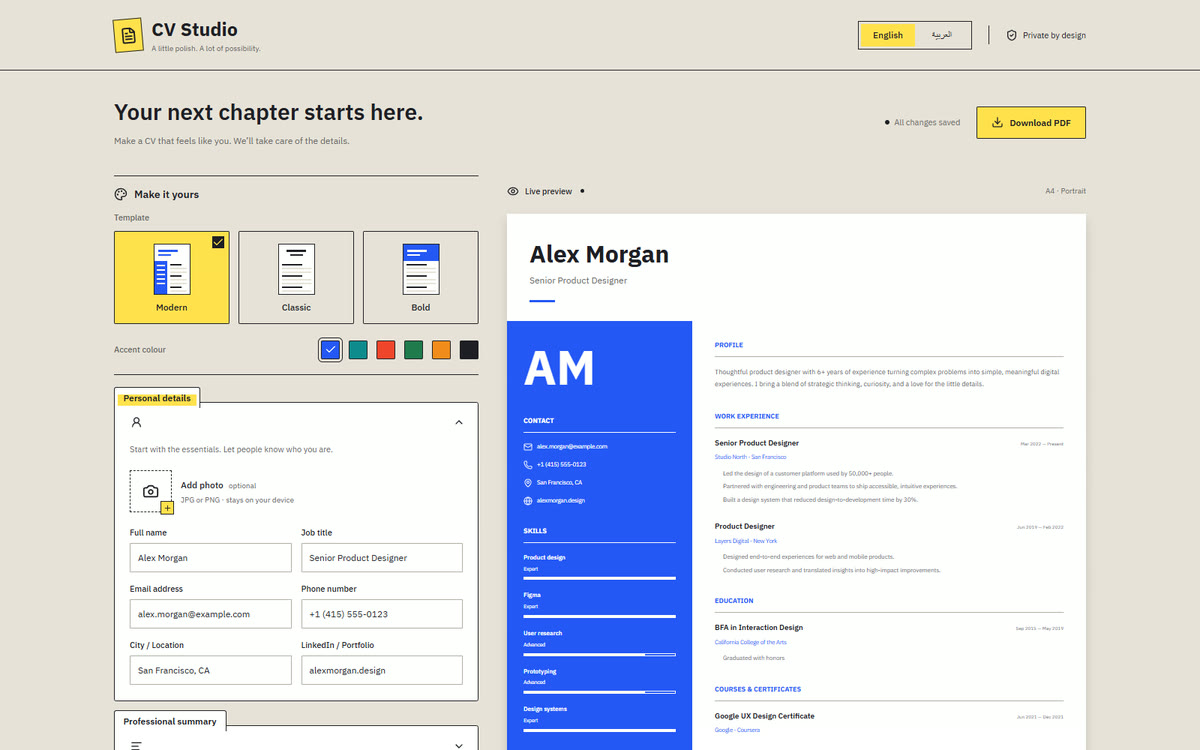
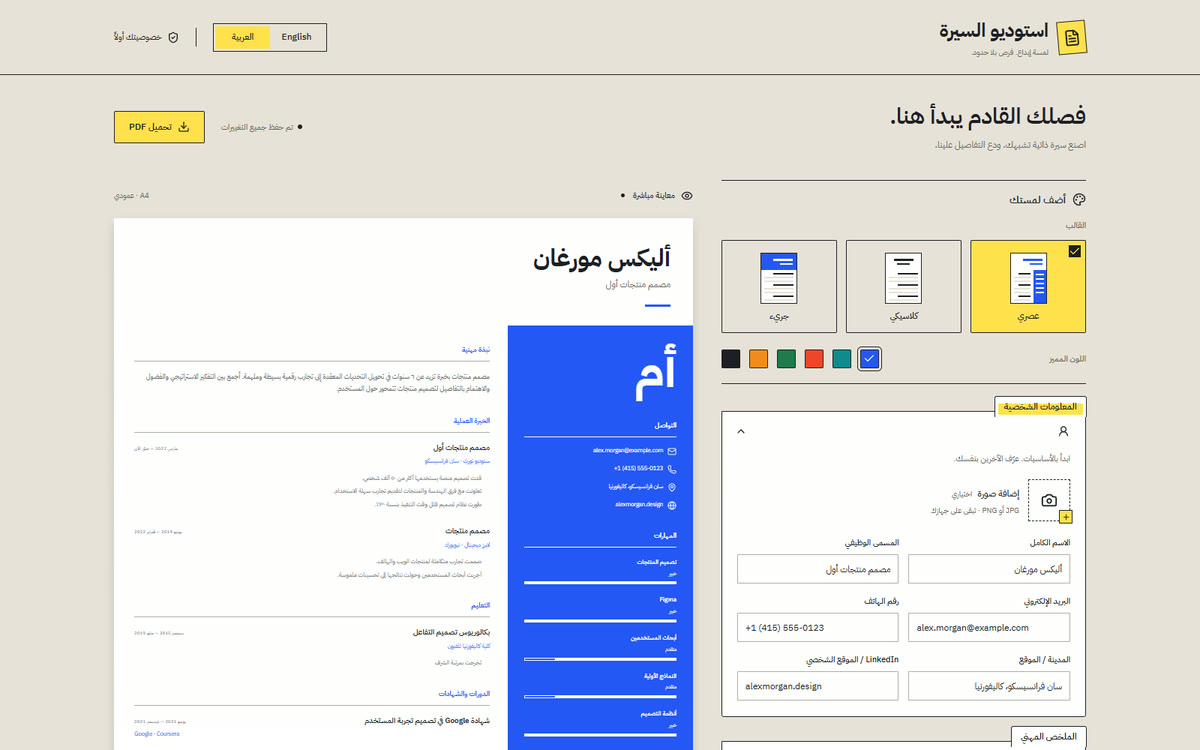
Portfolio: CV Studio in Arabic and the opened wedding invitation

Changed region(s): [[0.0925, 0.2453, 0.925, 1.0], [0.0, 0.0, 1.0, 0.2147]]

diff --git a/index.html b/index.html
@@ -607,7 +607,7 @@ footer{--f-bg:var(--ink);--f-ink:var(--bg);margin-top:clamp(72px,9vw,120px);back
             <div class="band-links"><a class="pill main" target="_blank" rel="noopener" href="https://elostabarber.lovable.app/">Live site<svg class="i" viewBox="0 0 24 24" aria-hidden="true"><use href="#i-up"/></svg></a><a class="pill" target="_blank" rel="noopener" href="https://github.com/ahmedmetered/elostabarber">Repo</a></div>
           </article>
           <article class="site fade d2">
-            <a class="frame-link" target="_blank" rel="noopener" href="https://yandk.lovable.app/"><div class="frame"><div class="bar"><i></i><i></i><i></i><span>yandk.lovable.app</span></div><img src="img/yandk.jpg" width="1200" height="750" alt="Wedding invitation for Yasmine and Karim, shown as a sealed envelope" loading="lazy"></div></a>
+            <a class="frame-link" target="_blank" rel="noopener" href="https://yandk.lovable.app/"><div class="frame"><div class="bar"><i></i><i></i><i></i><span>yandk.lovable.app</span></div><img src="img/yandk.jpg" width="1200" height="750" alt="Wedding invitation for Yasmine and Karim with the date and venue, and a countdown below" loading="lazy"></div></a>
             <h3>Yasmine &amp; Karim</h3>
             <p>A wedding invitation that opens from an envelope, with a countdown and an RSVP form.</p>
             <div class="band-links"><a class="pill main" target="_blank" rel="noopener" href="https://yandk.lovable.app/">Live site<svg class="i" viewBox="0 0 24 24" aria-hidden="true"><use href="#i-up"/></svg></a><a class="pill" target="_blank" rel="noopener" href="https://github.com/ahmedmetered/yandk">Repo</a></div>
@@ -817,7 +817,7 @@ var IT = {
   "Ebtesama dental clinic home page with a smiling tooth illustration and service cards": "Home page dello studio dentistico Ebtesama con l'illustrazione di un dente sorridente e le schede dei servizi",
   "Lamsa Salon home page in a magazine layout with the service list below": "Home page di Lamsa Salon con impaginazione da rivista e l'elenco dei servizi sotto",
   "El Osta Barber home page with a barber chair illustration on a dark background": "Home page di El Osta Barber con l'illustrazione di una poltrona da barbiere su sfondo scuro",
-  "Wedding invitation for Yasmine and Karim, shown as a sealed envelope": "Invito di nozze di Yasmine e Karim, mostrato come una busta chiusa",
+  "Wedding invitation for Yasmine and Karim with the date and venue, and a countdown below": "Invito di nozze di Yasmine e Karim con data e luogo, e sotto un conto alla rovescia",
   "CV Studio editor with template choices on the left and a live CV preview on the right": "L'editor di CV Studio con la scelta dei modelli a sinistra e l'anteprima del CV a destra",
   /* Open source */
   "Tools I use every day, published under MIT at github.com/ahmedmetered.": "Strumenti che uso ogni giorno, pubblicati con licenza MIT su github.com/ahmedmetered.",
